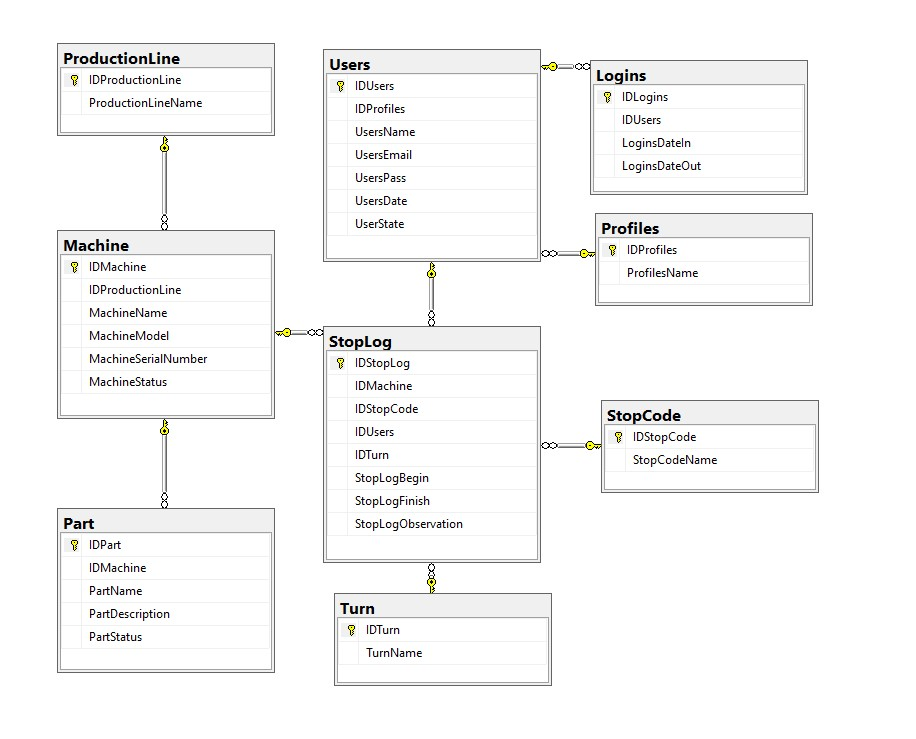
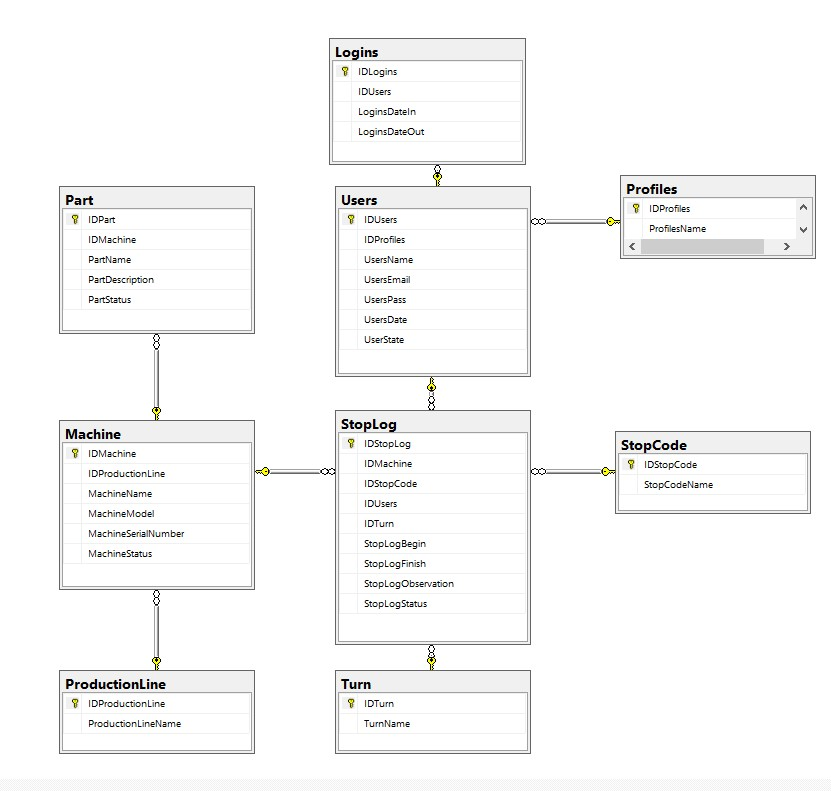
Se avanza con los formularios de ABMStopLog y FormStopLog. Se modifica DB agregando StopLogStatus

Changed region(s): [[0.0602, 0.0311, 0.9928, 0.9648], [0.0602, 0.0622, 0.2106, 0.1867], [0.2708, 0.0622, 0.3008, 0.1867]]

diff --git a/Negocio/StopLogNegocio.cs b/Negocio/StopLogNegocio.cs
@@ -4,17 +4,20 @@ using System.Linq;
 using System.Text;
 using System.Threading.Tasks;
 using Dominio;
+using Negocio;
+using System.Data;
+using System.Data.SqlClient;
 
 namespace Negocio
 {
     public class StopLogNegocio
     {
         private AccesoDatos connection;
-        public List<StopLog> listStoplog()
+        public List<StopLog> listStoplog(int idMachine, int idTurn, string date)
         {
             List<StopLog> stopLogList = new List<StopLog>();
             connection = new AccesoDatos();
-
+                       
             try
             {
                 connection.setQuery("SELECT * FROM StopLog");
@@ -22,19 +25,21 @@ namespace Negocio
                 while (connection.DataReader.Read())
                 {
                     StopLog auxStopLog = new StopLog();
+                    DateTime dateList = (DateTime)connection.DataReader["StopLogBegin"];
+                    if (date == dateList.ToString("dd-MM-yyyy"))
+                    {
+                        auxStopLog.IDStopLog = (long)connection.DataReader["IDStopLog"];
+                        auxStopLog.IDMachine = (int)connection.DataReader["IDMachine"];
+                        auxStopLog.IDStopCode = (int)connection.DataReader["IDStopCode"];
+                        auxStopLog.IDUsers = (int)connection.DataReader["IDUsers"];
+                        auxStopLog.IDTurn = (int)connection.DataReader["IDTurn"];
+                        auxStopLog.StopLogBegin = (DateTime)connection.DataReader["StopLogBegin"];
+                        auxStopLog.StopLogFinish = (DateTime)connection.DataReader["StopLogFinish"];
+                        auxStopLog.StopLogObservation = (string)connection.DataReader["StopLogObservation"];
+                        auxStopLog.StopLogStatus = (bool)connection.DataReader["StopLogStatus"];
 
-                    //auxStopLog.IDStopLog = (int)connection.DataReader["IDStopLog"];
-                    auxStopLog.IDMachine = (int)connection.DataReader["IDMachine"];
-                    auxStopLog.IDStopCode = (int)connection.DataReader["IDStopCode"];
-                    auxStopLog.IDUsers = (int)connection.DataReader["IDUsers"];
-                    auxStopLog.IDTurn = (int)connection.DataReader["IDTurn"];
-                    auxStopLog.StopLogBegin = (DateTime)connection.DataReader["StopLogBegin"];
-                    auxStopLog.StopLogFinish = (DateTime)connection.DataReader["StopLogFinish"];
-                    auxStopLog.StopLogObservation = (string)connection.DataReader["StopLogObservation"];
-
-                    stopLogList.Add(auxStopLog);
-
-
+                        stopLogList.Add(auxStopLog);
+                    }                 
 
                 }
                 return stopLogList;
@@ -50,6 +55,24 @@ namespace Negocio
 
             }
 
+        }
+
+        public void modifyStopLog(StopLog stopLog)
+        {
+            connection = new AccesoDatos();
+            try
+            {
+
+            }
+            catch (Exception ex)
+            {
+
+                throw ex;
+            }
+            finally
+            {
+                connection.closeConnection();
+            }
         }
     }
 }

diff --git a/TPC_Bulacio_Torres/FormStopLog.aspx.cs b/TPC_Bulacio_Torres/FormStopLog.aspx.cs
@@ -1,0 +1,79 @@
+using System;
+using System.Collections.Generic;
+using System.Linq;
+using System.Web;
+using System.Web.UI;
+using System.Web.UI.WebControls;
+using Dominio;
+using Negocio;
+
+namespace TPC_Bulacio_Torres
+{
+    public partial class FormStopLog : System.Web.UI.Page
+    {
+        StopLogNegocio stopLogNegocio;
+        StopLog stopLog;
+        protected void Page_Load(object sender, EventArgs e)
+        {
+            if (!IsPostBack)
+            {
+                fillAndSetddlStopCode();
+                
+                
+
+            }
+
+        }
+
+        private void fillAndSetddlStopCode()
+        {
+            StopCodeNegocio stopCodeNegocio = new StopCodeNegocio();
+
+            ddlStopCode.DataSource = stopCodeNegocio.getStopCode();
+            ddlStopCode.DataTextField = "StopCodeName";
+            ddlStopCode.DataValueField = "IDStopCode";
+            ddlStopCode.DataBind();
+
+        }
+
+        protected void btnAceptarParada_Click(object sender, EventArgs e)
+        {
+            stopLogNegocio = new StopLogNegocio();
+            stopLog = new StopLog();
+
+            try
+            {
+                string mode = Request.QueryString["Mode"];
+                string date = DateTime.Now.ToString("dd-MM-yyyy");
+                if (mode == "M")
+                {
+                    stopLog.IDMachine = Convert.ToInt32(Session["ABMStopLogs.IDMachine"]);
+                    stopLog.IDStopCode = Convert.ToInt32(ddlStopCode.SelectedValue);
+                    stopLog.IDUsers = Convert.ToInt32(Request.QueryString["IDUser"]);
+                    stopLog.IDTurn = Convert.ToInt32(Session["ABMStopLogs.IDTun"]);
+                    /// ACA VA LO VALORES DE STOPLOGBEGIN Y STOPLOGFINISH QUE TODAVIA NO PUEDO OBTENERLOS DEL INPUT
+                    stopLog.StopLogObservation = txtStopLogObservation.Text;
+                    stopLogNegocio.modifyStopLog(stopLog);                   
+                } else if(mode == "D"){
+                    //se elimina el registro
+                }
+                else
+                {
+                    ///nuevo registro
+                }
+                Response.Redirect("ABMStopLogs.aspx", false);
+            }
+            catch (Exception ex)
+            {
+
+                throw ex;
+            }
+
+        }
+
+        protected void btnCancelarParada_Click(object sender, EventArgs e)
+        {
+
+        }
+    }
+}

diff --git a/TPC_Bulacio_Torres/FormStopLog.aspx.designer.cs b/TPC_Bulacio_Torres/FormStopLog.aspx.designer.cs
@@ -1,0 +1,53 @@
+//------------------------------------------------------------------------------
+// <auto-generated>
+//     This code was generated by a tool.
+//
+//     Changes to this file may cause incorrect behavior and will be lost if
+//     the code is regenerated. 
+// </auto-generated>
+//------------------------------------------------------------------------------
+
+namespace TPC_Bulacio_Torres
+{
+
+
+    public partial class FormStopLog
+    {
+
+        /// <summary>
+        /// ddlStopCode control.
+        /// </summary>
+        /// <remarks>
+        /// Auto-generated field.
+        /// To modify move field declaration from designer file to code-behind file.
+        /// </remarks>
+        protected global::System.Web.UI.WebControls.DropDownList ddlStopCode;
+
+        /// <summary>
+        /// txtStopLogObservation control.
+        /// </summary>
+        /// <remarks>
+        /// Auto-generated field.
+        /// To modify move field declaration from designer file to code-behind file.
+        /// </remarks>
+        protected global::System.Web.UI.WebControls.TextBox txtStopLogObservation;
+
+        /// <summary>
+        /// btnAceptarParada control.
+        /// </summary>
+        /// <remarks>
+        /// Auto-generated field.
+        /// To modify move field declaration from designer file to code-behind file.
+        /// </remarks>
+        protected global::System.Web.UI.WebControls.Button btnAceptarParada;
+
+        /// <summary>
+        /// btnCancelarParada control.
+        /// </summary>
+        /// <remarks>
+        /// Auto-generated field.
+        /// To modify move field declaration from designer file to code-behind file.
+        /// </remarks>
+        protected global::System.Web.UI.WebControls.Button btnCancelarParada;
+    }
+}

diff --git a/TPC_Bulacio_Torres/ABMStopLogs.aspx.cs b/TPC_Bulacio_Torres/ABMStopLogs.aspx.cs
@@ -12,11 +12,22 @@ namespace TPC_Bulacio_Torres
     public partial class ABMStopLogs : System.Web.UI.Page
     {
         public List<StopLog> stopLogList;
+        //List<StopLog> auxStopLogList;
         StopLogNegocio stopLogNegocio;
         protected void Page_Load(object sender, EventArgs e)
-        {
+        {            
+            int idMachine = Int32.Parse((string)Session["ABMStopLogs.IDMachine"]);
+            int idTurn = Int32.Parse((string)Session["ABMStopLogs.IDTurn"]);
+            string date = DateTime.Now.ToString("dd-MM-yyyy");
+
             stopLogNegocio = new StopLogNegocio();
-            stopLogList = stopLogNegocio.listStoplog();
+            stopLogList = stopLogNegocio.listStoplog(idMachine, idTurn, date);
+            
+        }
+
+        protected void btnNuevaParada_Click(object sender, EventArgs e)
+        {
+            Response.Redirect("FormStopLog.aspx");
         }
     }
 }

diff --git a/Negocio/StopCodeNegocio.cs b/Negocio/StopCodeNegocio.cs
@@ -4,6 +4,9 @@ using System.Linq;
 using System.Text;
 using System.Threading.Tasks;
 using Dominio;
+using Negocio;
+using System.Data;
+using System.Data.SqlClient;
 
 namespace Negocio
 {
@@ -40,6 +43,20 @@ namespace Negocio
             {
                 connection.closeConnection();
             }
+        }
+
+        public object getStopCode()
+        {
+            DataSet dataSet = new DataSet();
+
+            string filter = "SELECT IDStopCode, StopCodeName FROM StopCode";
+            connection = new AccesoDatos();
+            connection.setQuery(filter);
+            SqlDataAdapter dataAdapter = connection.executeDataReader();
+
+            dataAdapter.Fill(dataSet);
+
+            return dataSet;
         }
     }
 }

diff --git a/TPC_Bulacio_Torres/ABMStopLogs.aspx.designer.cs b/TPC_Bulacio_Torres/ABMStopLogs.aspx.designer.cs
@@ -22,5 +22,14 @@ namespace TPC_Bulacio_Torres
         /// To modify move field declaration from designer file to code-behind file.
         /// </remarks>
         protected global::System.Web.UI.ScriptManager ScriptManager1;
+
+        /// <summary>
+        /// btnNuevaParada control.
+        /// </summary>
+        /// <remarks>
+        /// Auto-generated field.
+        /// To modify move field declaration from designer file to code-behind file.
+        /// </remarks>
+        protected global::System.Web.UI.WebControls.Button btnNuevaParada;
     }
 }

diff --git a/Dominio/StopLog.cs b/Dominio/StopLog.cs
@@ -8,7 +8,7 @@ namespace Dominio
 {
     public class StopLog
     {
-        public int IDStopLog { get; set; }
+        public long IDStopLog { get; set; }
         public int IDMachine { get; set; }
         public int IDStopCode{ get; set; }
         public int IDUsers { get; set; }
@@ -16,6 +16,7 @@ namespace Dominio
         public DateTime StopLogBegin { get; set; }
         public DateTime StopLogFinish { get; set; }
         public string StopLogObservation { get; set; }
+        public bool StopLogStatus { get; set; }
 
     }
 }

diff --git a/TPC_Bulacio_Torres/FormOperador.aspx.cs b/TPC_Bulacio_Torres/FormOperador.aspx.cs
@@ -16,8 +16,10 @@ namespace TPC_Bulacio_Torres
         {
             fillAndSetddlMachine();
             fillAndSetddlProductionLine();
-            fillAndSetddlTurn();
-
+            fillAndSetddlTurn();            
+            Session["ABMStopLogs.IDProductionLine"] = ddlProductionLine.SelectedValue.ToString();
+            Session["ABMStopLogs.IDMachine"] = ddlMachine.SelectedValue.ToString();
+            Session["ABMStopLogs.IDTurn"] = ddlTurn.SelectedValue.ToString();
         }
 
         private void fillAndSetddlTurn()
